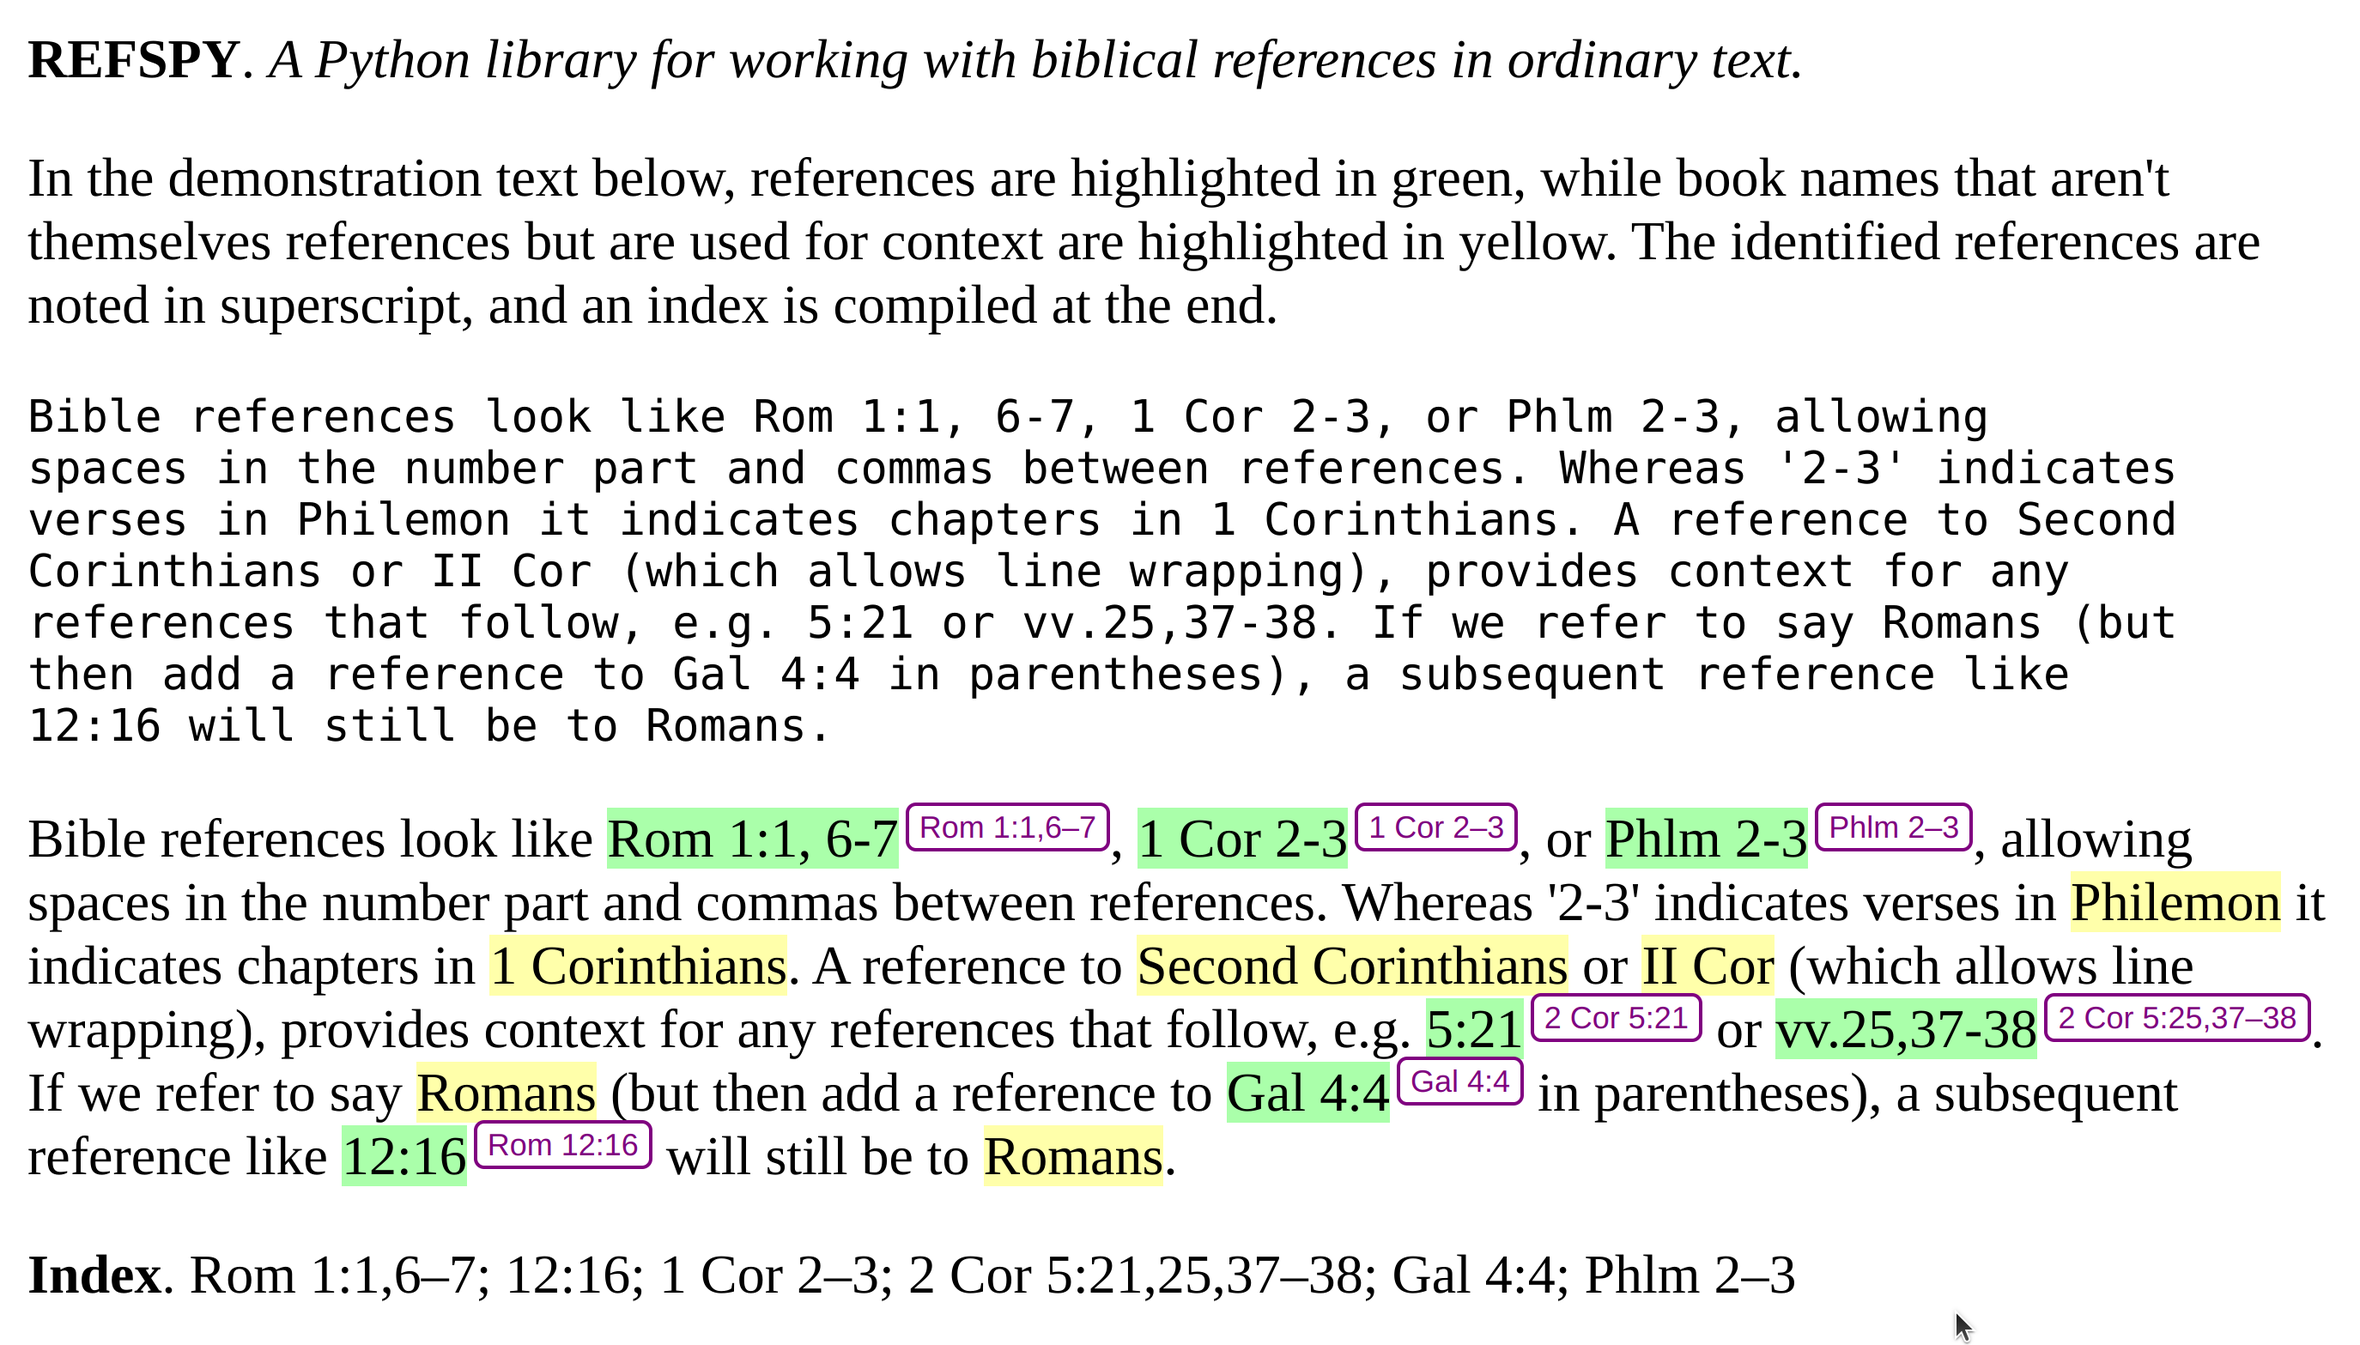
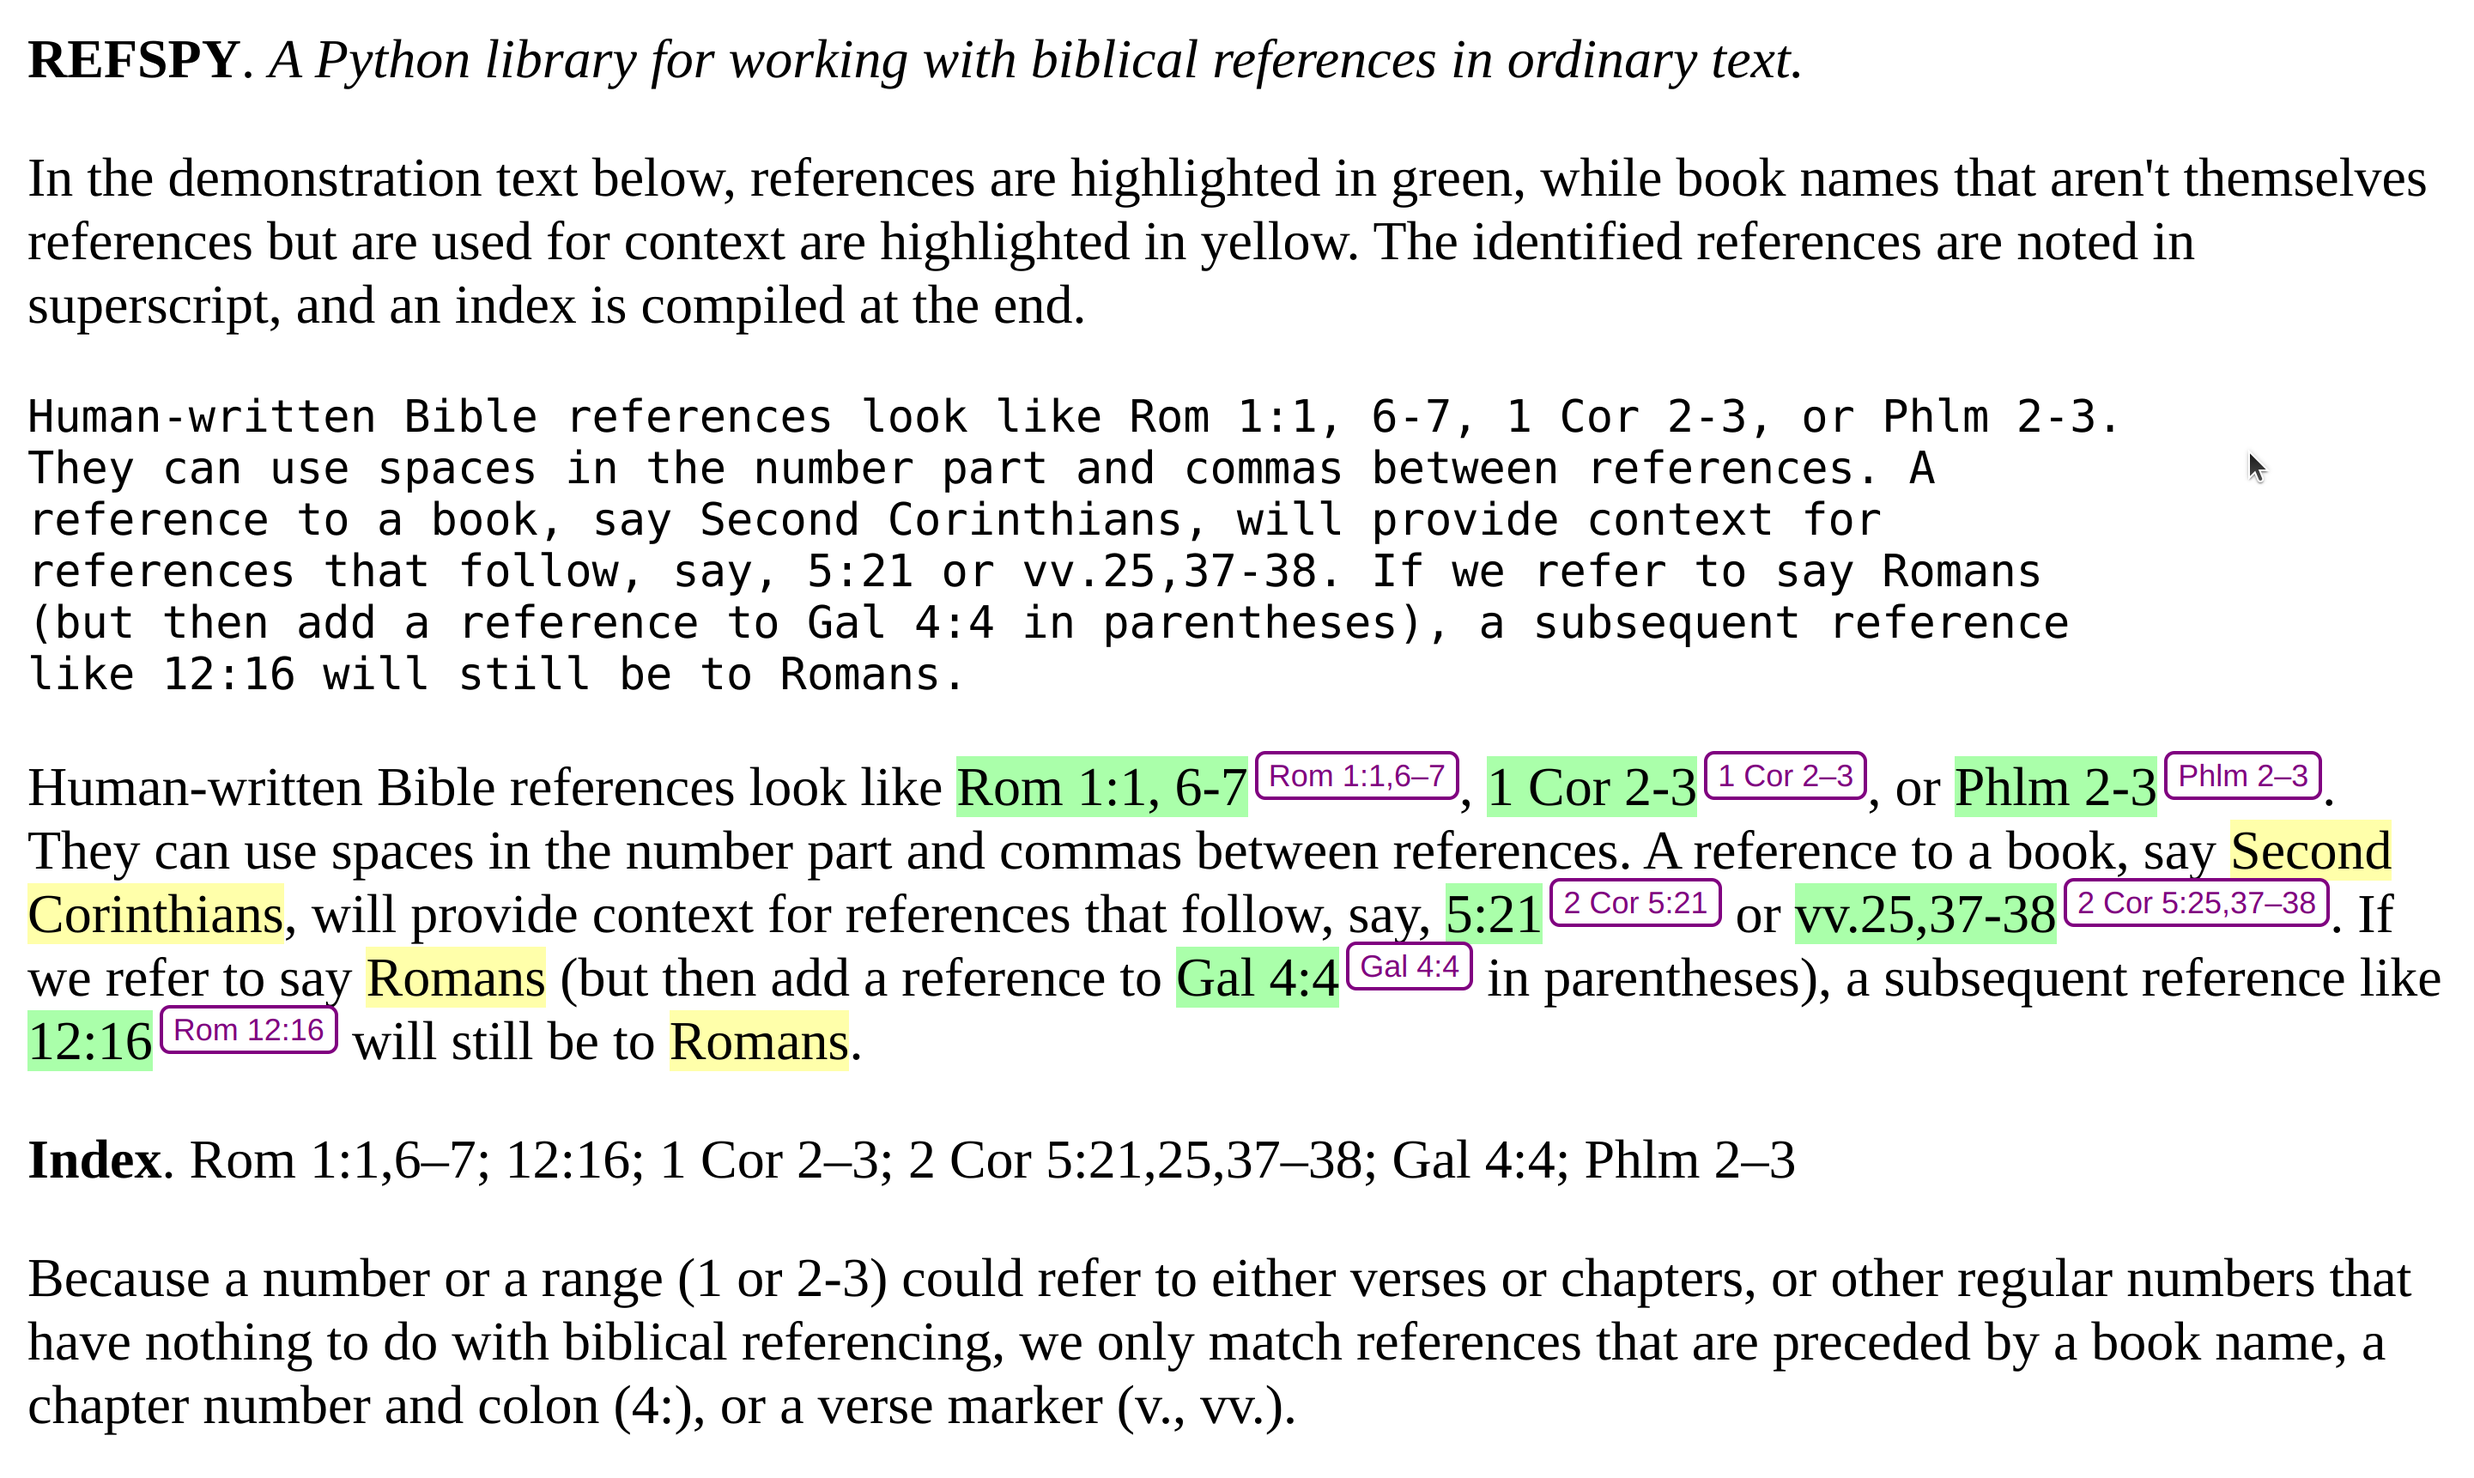
Update demo to show spaces in references

diff --git a/refspy/docs/demo.html b/refspy/docs/demo.html
@@ -21,24 +21,26 @@
 
 
     <pre>
-Bible references look like Rom 1:1, 6-7, 1 Cor 2-3, or Phlm 2-3, allowing
-spaces in the number part and commas between references. Whereas '2-3' indicates
-verses in Philemon it indicates chapters in 1 Corinthians. A reference to Second
-Corinthians or II Cor (which allows line wrapping), provides context for any
-references that follow, e.g. 5:21 or vv.25,37-38. If we refer to say Romans (but
-then add a reference to Gal 4:4 in parentheses), a subsequent reference like
-12:16 will still be to Romans. 
+Human-written Bible references look like Rom 1:1, 6-7, 1 Cor 2-3, or Phlm 2-3.
+They can use spaces in the number part and commas between references. A
+reference to a book, say Second Corinthians, will provide context for
+references that follow, say, 5:21 or vv.25,37-38. If we refer to say Romans
+(but then add a reference to Gal 4:4 in parentheses), a subsequent reference
+like 12:16 will still be to Romans.
 </pre>
     <p>
-Bible references look like <span class="green">Rom 1:1, 6-7</span><sup>Rom 1:1,6–7</sup>, <span class="green">1 Cor 2-3</span><sup>1 Cor 2–3</sup>, or <span class="green">Phlm 2-3</span><sup>Phlm 2–3</sup>, allowing
-spaces in the number part and commas between references. Whereas '2-3' indicates
-verses in <span class="yellow">Philemon</span> it indicates chapters in <span class="yellow">1 Corinthians</span>. A reference to <span class="yellow">Second
-Corinthians</span> or <span class="yellow">II Cor</span> (which allows line wrapping), provides context for any
-references that follow, e.g. <span class="green">5:21</span><sup>2 Cor 5:21</sup> or <span class="green">vv.25,37-38</span><sup>2 Cor 5:25,37–38</sup>. If we refer to say <span class="yellow">Romans</span> (but
-then add a reference to <span class="green">Gal 4:4</span><sup>Gal 4:4</sup> in parentheses), a subsequent reference like
-<span class="green">12:16</span><sup>Rom 12:16</sup> will still be to <span class="yellow">Romans</span>. 
+Human-written Bible references look like <span class="green">Rom 1:1, 6-7</span><sup>Rom 1:1,6–7</sup>, <span class="green">1 Cor 2-3</span><sup>1 Cor 2–3</sup>, or <span class="green">Phlm 2-3</span><sup>Phlm 2–3</sup>.
+They can use spaces in the number part and commas between references. A
+reference to a book, say <span class="yellow">Second Corinthians</span>, will provide context for
+references that follow, say, <span class="green">5:21</span><sup>2 Cor 5:21</sup> or <span class="green">vv.25,37-38</span><sup>2 Cor 5:25,37–38</sup>. If we refer to say <span class="yellow">Romans</span>
+(but then add a reference to <span class="green">Gal 4:4</span><sup>Gal 4:4</sup> in parentheses), a subsequent reference
+like <span class="green">12:16</span><sup>Rom 12:16</sup> will still be to <span class="yellow">Romans</span>.
 </p>
     <p><b>Index</b>. Rom 1:1,6–7; 12:16; 1 Cor 2–3; 2 Cor 5:21,25,37–38; Gal 4:4; Phlm 2–3</p>
+    <p> Because a number or a range (1 or 2-3) could refer to either verses or
+    chapters, or other regular numbers that have nothing to do with biblical
+    referencing, we only match references that are preceded by a book name, a
+    chapter number and colon (4:), or a verse marker (v., vv.).</p>
     <p>Generated by: <a href="https://github.com/eukras/refspy/refspy/docs/demo.py">https://github.com/eukras/refspy/refspy/docs/demo.py</a><p>
 </html>
 

diff --git a/refspy/docs/demo.py b/refspy/docs/demo.py
@@ -9,13 +9,12 @@ URL = "https://github.com/eukras/refspy/refspy/docs/demo.py"
 __ = refspy()
 
 text = """
-Bible references look like Rom 1:1, 6-7, 1 Cor 2-3, or Phlm 2-3, allowing
-spaces in the number part and commas between references. Whereas '2-3' indicates
-verses in Philemon it indicates chapters in 1 Corinthians. A reference to Second
-Corinthians or II Cor (which allows line wrapping), provides context for any
-references that follow, e.g. 5:21 or vv.25,37-38. If we refer to say Romans (but
-then add a reference to Gal 4:4 in parentheses), a subsequent reference like
-12:16 will still be to Romans. 
+Human-written Bible references look like Rom 1:1, 6-7, 1 Cor 2-3, or Phlm 2-3.
+They can use spaces in the number part and commas between references. A
+reference to a book, say Second Corinthians, will provide context for
+references that follow, say, 5:21 or vv.25,37-38. If we refer to say Romans
+(but then add a reference to Gal 4:4 in parentheses), a subsequent reference
+like 12:16 will still be to Romans.
 """
 
 matches = __.find_references(text, include_books=True)
@@ -62,6 +61,10 @@ print(f"""
     <pre>{text}</pre>
     <p>{sequential_replace(text, strs, tags)}</p>
     <p><b>Index</b>. {"; ".join(index)}</p>
+    <p> Because a number or a range (1 or 2-3) could refer to either verses or
+    chapters, or other regular numbers that have nothing to do with biblical
+    referencing, we only match references that are preceded by a book name, a
+    chapter number and colon (4:), or a verse marker (v., vv.).</p>
     <p>Generated by: <a href="{URL}">{URL}</a><p>
 </html>
 """)

diff --git a/README.md b/README.md
@@ -15,13 +15,6 @@
 Refspy is a biblical referencing library in Python. See
 [docs/INTERNALS.md](docs/INTERNALS.md) for implementation.
 
-In isolation, a number or a range (`1` or `2-3`) could refer to either verses
-or chapters, or to chapter numbers for a publication, or other regular numbers
-that have nothing to do with biblical referencing. So, we only match numbers
-that are preceded by a book name, a chapter number and colon (`4:`), or a verse
-marker (`v.`, `vv.`). The book name lets us say whether the reference will be
-to chapters or verses, and the others are unambiguous.
-
 ## Demo
 
 See [refspy/docs/](refspy/docs/).
